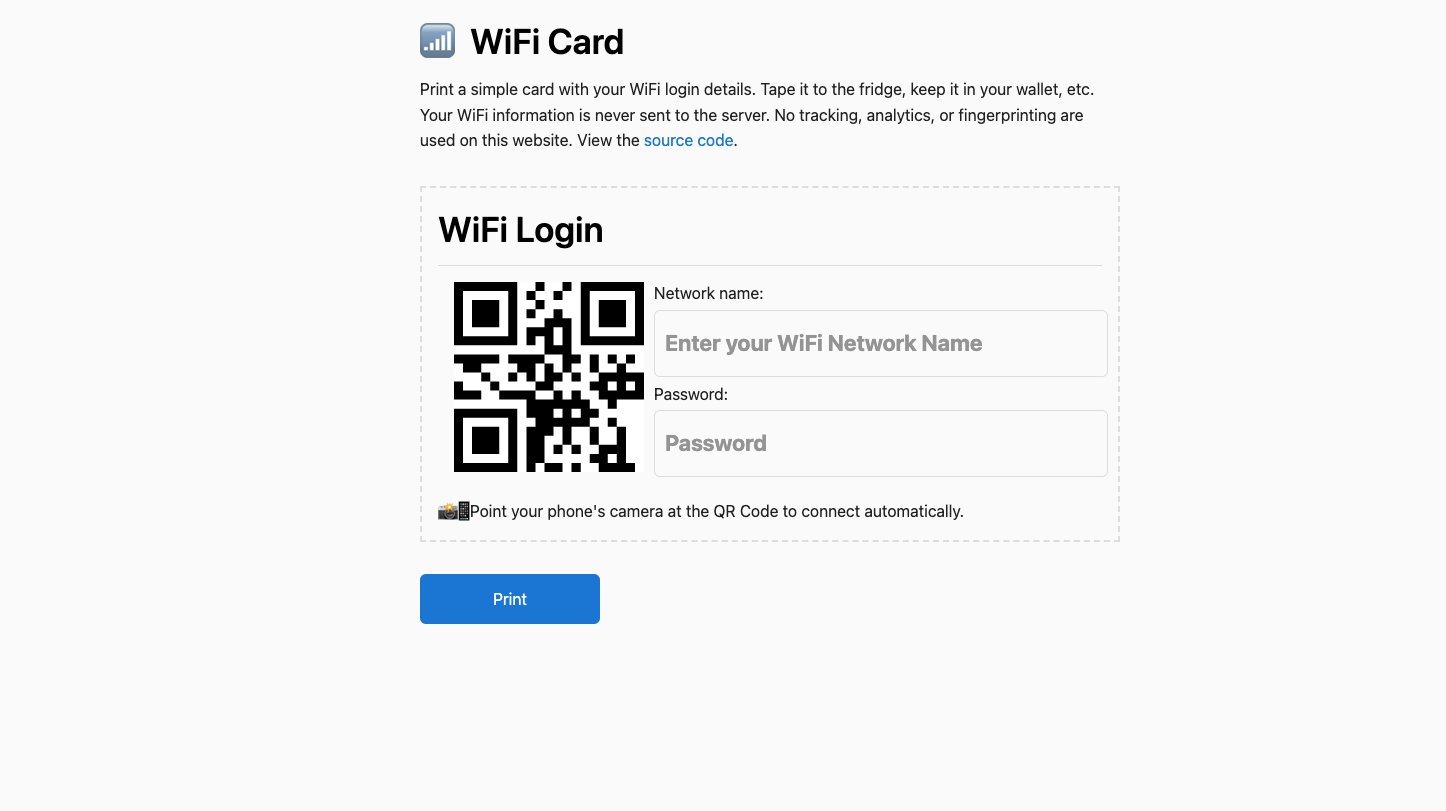
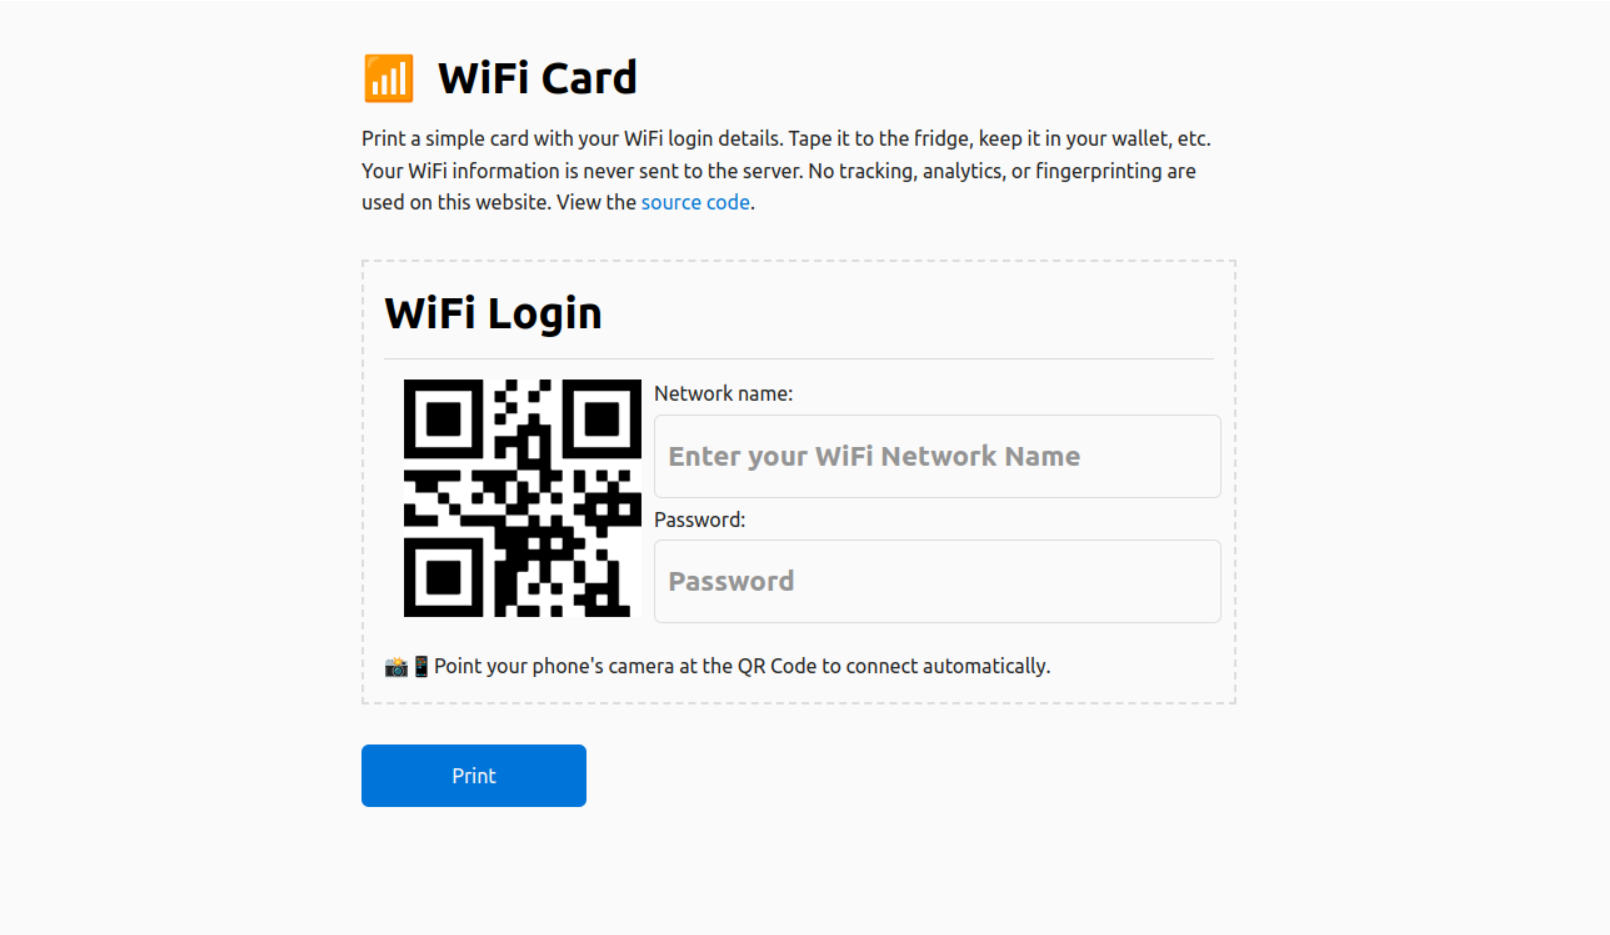
added website gifs

Changed region(s): [[0.2178, 0.0308, 0.7469, 0.8631]]

diff --git a/src/sections/Websites.svelte b/src/sections/Websites.svelte
@@ -13,7 +13,7 @@
 		<Website
 			title="Vineyard Vines Sales"
 			link="https://vineyard-vines-sales.netlify.app/"
-			desktop="websites/vineyard-vines-sales-desktop.png"
+			desktop="websites/vineyard-vines-sales-desktop.gif"
 
 			noFetchImage
 			noMobile
@@ -21,17 +21,17 @@
 		<Website
 			title="WiFi Card"
 			link="https://wifi-card.netlify.app"
-			desktop="websites/wifi-card-desktop.png"
+			desktop="websites/wifi-card-desktop.gif"
+			mobile="websites/wifi-card-mobile.png"
 
 			noFetchImage
-			noMobile
 		/>
 	</div>
-	<div style="margin-top: 0">
+	<div style="margin-top: 16px">
 		<Website
 			title="React Code Editor"
 			link="https://reactify-editor.netlify.app/"
-			desktop="websites/react-code-editor-desktop.png"
+			desktop="websites/react-code-editor-desktop.gif"
 
 			noFetchImage
 			noMobile
